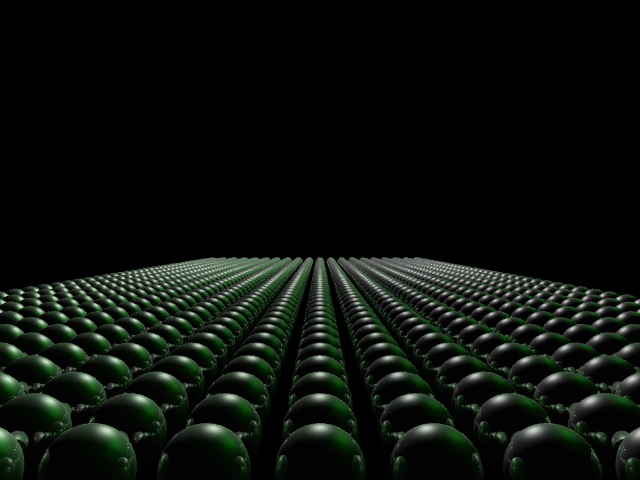
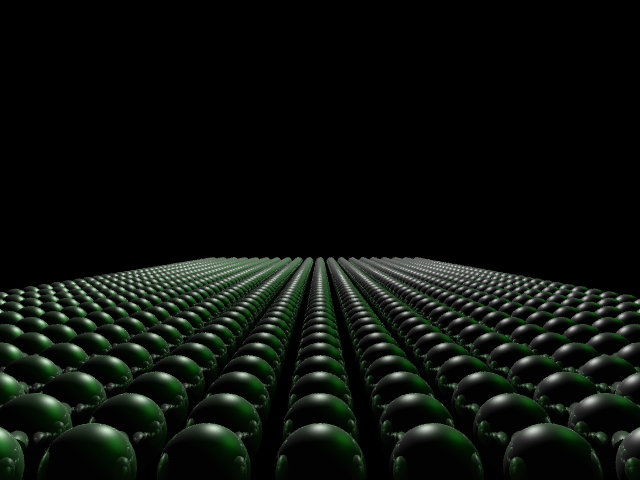
replaces 'bounds' with a min and max vec3

diff --git a/Shapes.cpp b/Shapes.cpp
@@ -46,7 +46,9 @@ Triangle::Triangle(vec3 point0, vec3 point1, vec3 point2) {
 	double maxy = max(max(p0[1],p1[1]),p2[1]);
 	double minz = min(min(p0[2],p1[2]),p2[2]);
 	double maxz = max(max(p0[2],p1[2]),p2[2]);
-	aabb = AABB(minx,maxx,miny,maxy,minz,maxz);
+	vec3 minvec = vec3(minx,miny,minz);
+	vec3 maxvec = vec3(maxx,maxy,maxz);
+	aabb = AABB(minvec, maxvec);
 }
 
 
@@ -128,7 +130,10 @@ Sphere::Sphere(mat4 trans){
 	double maxy = (R[1][3]-sqrt(R[1][3]*R[1][3] -R[3][3]*R[1][1]))/R[3][3];
 	double minz = (R[2][3]+sqrt(R[2][3]*R[2][3] -R[3][3]*R[2][2]))/R[3][3];
 	double maxz = (R[2][3]-sqrt(R[2][3]*R[2][3] -R[3][3]*R[2][2]))/R[3][3];
-	aabb = AABB(minx,maxx,miny,maxy,minz,maxz);
+	
+	vec3 minvec = vec3(minx,miny,minz);
+	vec3 maxvec = vec3(maxx,maxy,maxz);
+	aabb = AABB(minvec, maxvec);
 }
 
 
@@ -162,22 +167,17 @@ vec3 Sphere::getNormal(vec3& hit){
 }
 
 /***  AABB  ***/
-AABB::AABB(double minx, double maxx, double miny, double maxy, double minz, double maxz) {
-	bounds[0] = minx;
-	bounds[1] = maxx;
-	bounds[2] = miny;
-	bounds[3] = maxy;
-	bounds[4] = minz;
-	bounds[5] = maxz;
-	center[0] = (minx + maxx)/2.0;
-	center[1] = (miny + maxy)/2.0;
-	center[2] = (minz + maxz)/2.0;
+AABB::AABB(vec3& minarg, vec3& maxarg) {
+	this->min = minarg;
+	this->max = maxarg;
+	this->center = (minarg+maxarg)/2.0;
+	
 }
 
 bool intersect1D(double start, double dir, double axisMin, double axisMax, double& near, double& far){
 	// Parallel
 	if(dir<EPSILON && dir>-EPSILON){
-		return (!start<axisMin) || (start>axisMax);
+		return (start>axisMin) && (start<axisMax);
 	}
 	
 	//intersection parameters
@@ -198,24 +198,36 @@ bool intersect1D(double start, double dir, double axisMin, double axisMax, doubl
 	return true;
 }
 
+bool
+operator<(const vec3 &vecA, const vec3 &vecB){ 
+	if (vecA[0] > vecB[0]) return false;
+	if (vecA[1] > vecB[1]) return false;
+	if (vecA[2] > vecB[2]) return false;
+	return true;
+}
+
+bool
+operator>(const vec3 &vecA, const vec3 &vecB){ 
+	if (vecA[0] < vecB[0]) return false;
+	if (vecA[1] < vecB[1]) return false;
+	if (vecA[2] < vecB[2]) return false;
+	return true;
+}
+
 double AABB::intersect(Ray& ray, int axis){
-	if (ray.origin[0]>bounds[0] && ray.origin[0]<bounds[1] && ray.origin[1]>bounds[2] &&
-	ray.origin[1]<bounds[3] &&ray.origin[2]>bounds[4] &&ray.origin[2]<bounds[5]){
-		return -1.0; // always first if inside	
+	
+	if (ray.origin < max && ray.origin > min){
+		return EPSILON; // always first if inside	
 	}
 	
 	double far = DBL_MAX;
 	double near = DBL_MIN;
 	
-	if (!intersect1D(ray.origin[0],ray.direction[0],bounds[0],bounds[1],near,far)) return false;
-	if (!intersect1D(ray.origin[1],ray.direction[1],bounds[2],bounds[3],near,far)) return false;
-	if (!intersect1D(ray.origin[2],ray.direction[2],bounds[4],bounds[5],near,far)) return false;
+	if (!intersect1D(ray.origin[0],ray.direction[0],min[0],max[0],near,far)) return false;
+	if (!intersect1D(ray.origin[1],ray.direction[1],min[1],max[1],near,far)) return false;
+	if (!intersect1D(ray.origin[2],ray.direction[2],min[2],max[2],near,far)) return false;
 	
-
-
-	return near;
-	
-	//return true;
+	return near+EPSILON;
 }
 
 

diff --git a/KDTree.cpp b/KDTree.cpp
@@ -27,26 +27,28 @@ TreeNode::TreeNode(vector<Shape*>& prims, int ax, AABB& bigBox, bool prevSize){
 	
 	ShapeSorter s(axis);
 	sort(prims.begin(), prims.end(),s);
-	this->split = prims[prims.size()/2]->aabb.center[axis];
+	double split = prims[prims.size()/2]->aabb.center[axis];
+	double leftSplit = DBL_MIN;
+	double rightSplit = DBL_MAX;
 	
 	vector<Shape*> leftPrims;
 	vector<Shape*>::iterator it=prims.begin();
 	for(;it!=prims.end(); ++it){
-		if((*it)->aabb.bounds[2*axis]<(split+EPSILON)){
+		if((*it)->aabb.min[axis]<(split+EPSILON)){
 			leftPrims.push_back(*it);
 		}
 	}
 	
 	vector<Shape*> rightPrims;
 	for(it=prims.begin(); it!=prims.end(); ++it){
-		if((*it)->aabb.bounds[2*axis+1]>(split-EPSILON)){
+		if((*it)->aabb.max[axis]>(split-EPSILON)){
 			rightPrims.push_back(*it);
 		}
 	}
 	
 	bool same = leftPrims.size()==prims.size() || rightPrims.size()==prims.size();
 	
-	//cout << leftPrims.size() << " " << rightPrims.size() <<endl;
+	//cout <<prims.size() << " "<< leftPrims.size() << " " << rightPrims.size() <<endl;
 	
 	if( prevSize&&same || prims.size()<=TREELIMIT){
 		left = NULL;
@@ -55,10 +57,10 @@ TreeNode::TreeNode(vector<Shape*>& prims, int ax, AABB& bigBox, bool prevSize){
 		//cout << "Leaf" << endl;
 	}else{
 		AABB leftAABB = AABB(aabb);
-		leftAABB.bounds[2*axis+1] = split;
+		leftAABB.max[axis] = split;
 		
 		AABB rightAABB = AABB(aabb);
-		rightAABB.bounds[2*axis] = split;
+		rightAABB.min[axis] = split;
 		
 		int newAxis = (axis+1)%3;
 		left = new TreeNode(leftPrims, newAxis, leftAABB, same);
@@ -82,33 +84,31 @@ Intersection TreeNode::intersect(Ray& ray){
 	double hitLeft = left->aabb.intersect(ray,this->axis);
 	double hitRight = right->aabb.intersect(ray,this->axis);
 	
-	//misses both
 	if(!hitLeft && !hitRight) return Intersection();
 	
-	//misses one
-	if(!hitLeft) return right->intersect(ray);
-	if(!hitRight) return left->intersect(ray);
-	
+	if (!hitLeft) {
+		return right->intersect(ray);
+	}
+	if (!hitRight) {
+		return left->intersect(ray);
+	}
 	
 	//hits both at same spot
+	
+	/*
 	Intersection hit;
 	if (abs(hitLeft-hitRight) < EPSILON){
 		if (ray.direction[this->axis] > 0) {
 			hit = right->intersect(ray);
-			//if (!hit.primative){
-			//	hit = left->intersect(ray);
-			//}
 			return hit;
 		} else {
 			hit = left->intersect(ray);
-			//if (!hit.primative){
-			//	hit = right->intersect(ray);
-			//}
 			return hit;
 		}
 	}
+	*/
 	
-	
+	Intersection hit;
 	if (hitLeft > hitRight){
 		hit = right->intersect(ray);
 		if (!hit.primative){
@@ -123,10 +123,8 @@ Intersection TreeNode::intersect(Ray& ray){
 		return hit;
 	}
 	
-	
-	
-	
 	/*
+	
 	Intersection hit1 = left->intersect(ray);
 	Intersection hit2 = right->intersect(ray);
 	if(!hit1.primative) return hit2;

diff --git a/Scene.cpp b/Scene.cpp
@@ -36,12 +36,14 @@ Scene::Scene(char* file) {
 	constant = 1;
 	linear = 0;
 	quadratic = 0;
-	sceneAABB = AABB(DBL_MAX,DBL_MIN,DBL_MAX,DBL_MIN,DBL_MAX,DBL_MIN);
+	vec3 maxvec = vec3(DBL_MAX,DBL_MAX,DBL_MAX);
+	vec3 minvec = vec3(DBL_MIN,DBL_MIN,DBL_MIN);
+	sceneAABB = AABB(maxvec, minvec);
 	parse(file);
 	clog << "Constructing KDTree... ";
-	double diffx = sceneAABB.bounds[1] - sceneAABB.bounds[0];
-	double diffy = sceneAABB.bounds[3] - sceneAABB.bounds[2];
-	double diffz = sceneAABB.bounds[5] - sceneAABB.bounds[4];
+	double diffx = sceneAABB.max[0] - sceneAABB.min[0];
+	double diffy = sceneAABB.max[1] - sceneAABB.min[1];
+	double diffz = sceneAABB.max[2] - sceneAABB.min[2];
 	if (diffx>diffy && diffx>diffz){
 		KDTree = new TreeNode(objects,0,sceneAABB,false);
 	} else if (diffy>diffz){
@@ -84,12 +86,12 @@ void Scene::setCoordinateFrame(vec3& lookat, vec3& up){
 }
 
 void Scene::updateAABB(vec3& point){
-	sceneAABB.bounds[0] = min(sceneAABB.bounds[0],point[0]);
-	sceneAABB.bounds[1] = max(sceneAABB.bounds[1],point[0]);
-	sceneAABB.bounds[2] = min(sceneAABB.bounds[2],point[1]);
-	sceneAABB.bounds[3] = max(sceneAABB.bounds[3],point[1]);
-	sceneAABB.bounds[4] = min(sceneAABB.bounds[4],point[2]);
-	sceneAABB.bounds[5] = max(sceneAABB.bounds[5],point[2]);
+	sceneAABB.min[0] = min(sceneAABB.min[0],point[0]);
+	sceneAABB.max[0] = max(sceneAABB.max[0],point[0]);
+	sceneAABB.min[1] = min(sceneAABB.min[1],point[1]);
+	sceneAABB.max[1] = max(sceneAABB.max[1],point[1]);
+	sceneAABB.min[2] = min(sceneAABB.min[2],point[2]);
+	sceneAABB.max[2] = max(sceneAABB.max[2],point[2]);
 }
 
 void Scene::parseLine(string l, stack<mat4>& mv, vector<vec3>& verts, 
@@ -131,12 +133,12 @@ void Scene::parseLine(string l, stack<mat4>& mv, vector<vec3>& verts,
 		trans *= Transform::translate(arg1,arg2,arg3);
 		trans *= Transform::scale(arg4,arg4,arg4);
 		Sphere* s = new Sphere(trans);
-		sceneAABB.bounds[0] = min(s->aabb.bounds[0],sceneAABB.bounds[0]);
-		sceneAABB.bounds[1] = max(s->aabb.bounds[1],sceneAABB.bounds[1]);
-		sceneAABB.bounds[2] = min(s->aabb.bounds[2],sceneAABB.bounds[2]);
-		sceneAABB.bounds[3] = max(s->aabb.bounds[3],sceneAABB.bounds[3]);
-		sceneAABB.bounds[4] = min(s->aabb.bounds[4],sceneAABB.bounds[4]);
-		sceneAABB.bounds[5] = max(s->aabb.bounds[5],sceneAABB.bounds[5]);
+		sceneAABB.min[0] = min(s->aabb.min[0],sceneAABB.min[0]);
+		sceneAABB.max[0] = max(s->aabb.max[0],sceneAABB.max[0]);
+		sceneAABB.min[1] = min(s->aabb.min[1],sceneAABB.min[1]);
+		sceneAABB.max[1] = max(s->aabb.max[1],sceneAABB.max[1]);
+		sceneAABB.min[2] = min(s->aabb.min[2],sceneAABB.min[2]);
+		sceneAABB.max[2] = max(s->aabb.max[2],sceneAABB.max[2]);
 		s->ambient = ambient;
 		s->diffuse = diffuse;
 		s->specular = specular;

diff --git a/headers/Shapes.h b/headers/Shapes.h
@@ -8,8 +8,9 @@
 class AABB {
 public:
 	AABB(){};
-	AABB(double,double,double,double,double,double);
-	double bounds[6];
+	AABB(vec3&,vec3&);
+	vec3 max;
+	vec3 min;
 	double intersect(Ray&,int);
 	vec3 center;
 };

diff --git a/headers/KDTree.h b/headers/KDTree.h
@@ -13,7 +13,6 @@ public:
 	std::vector<Shape*> primatives;
 	AABB aabb;
 	int axis;
-	double split;
 };
 
 #endif
